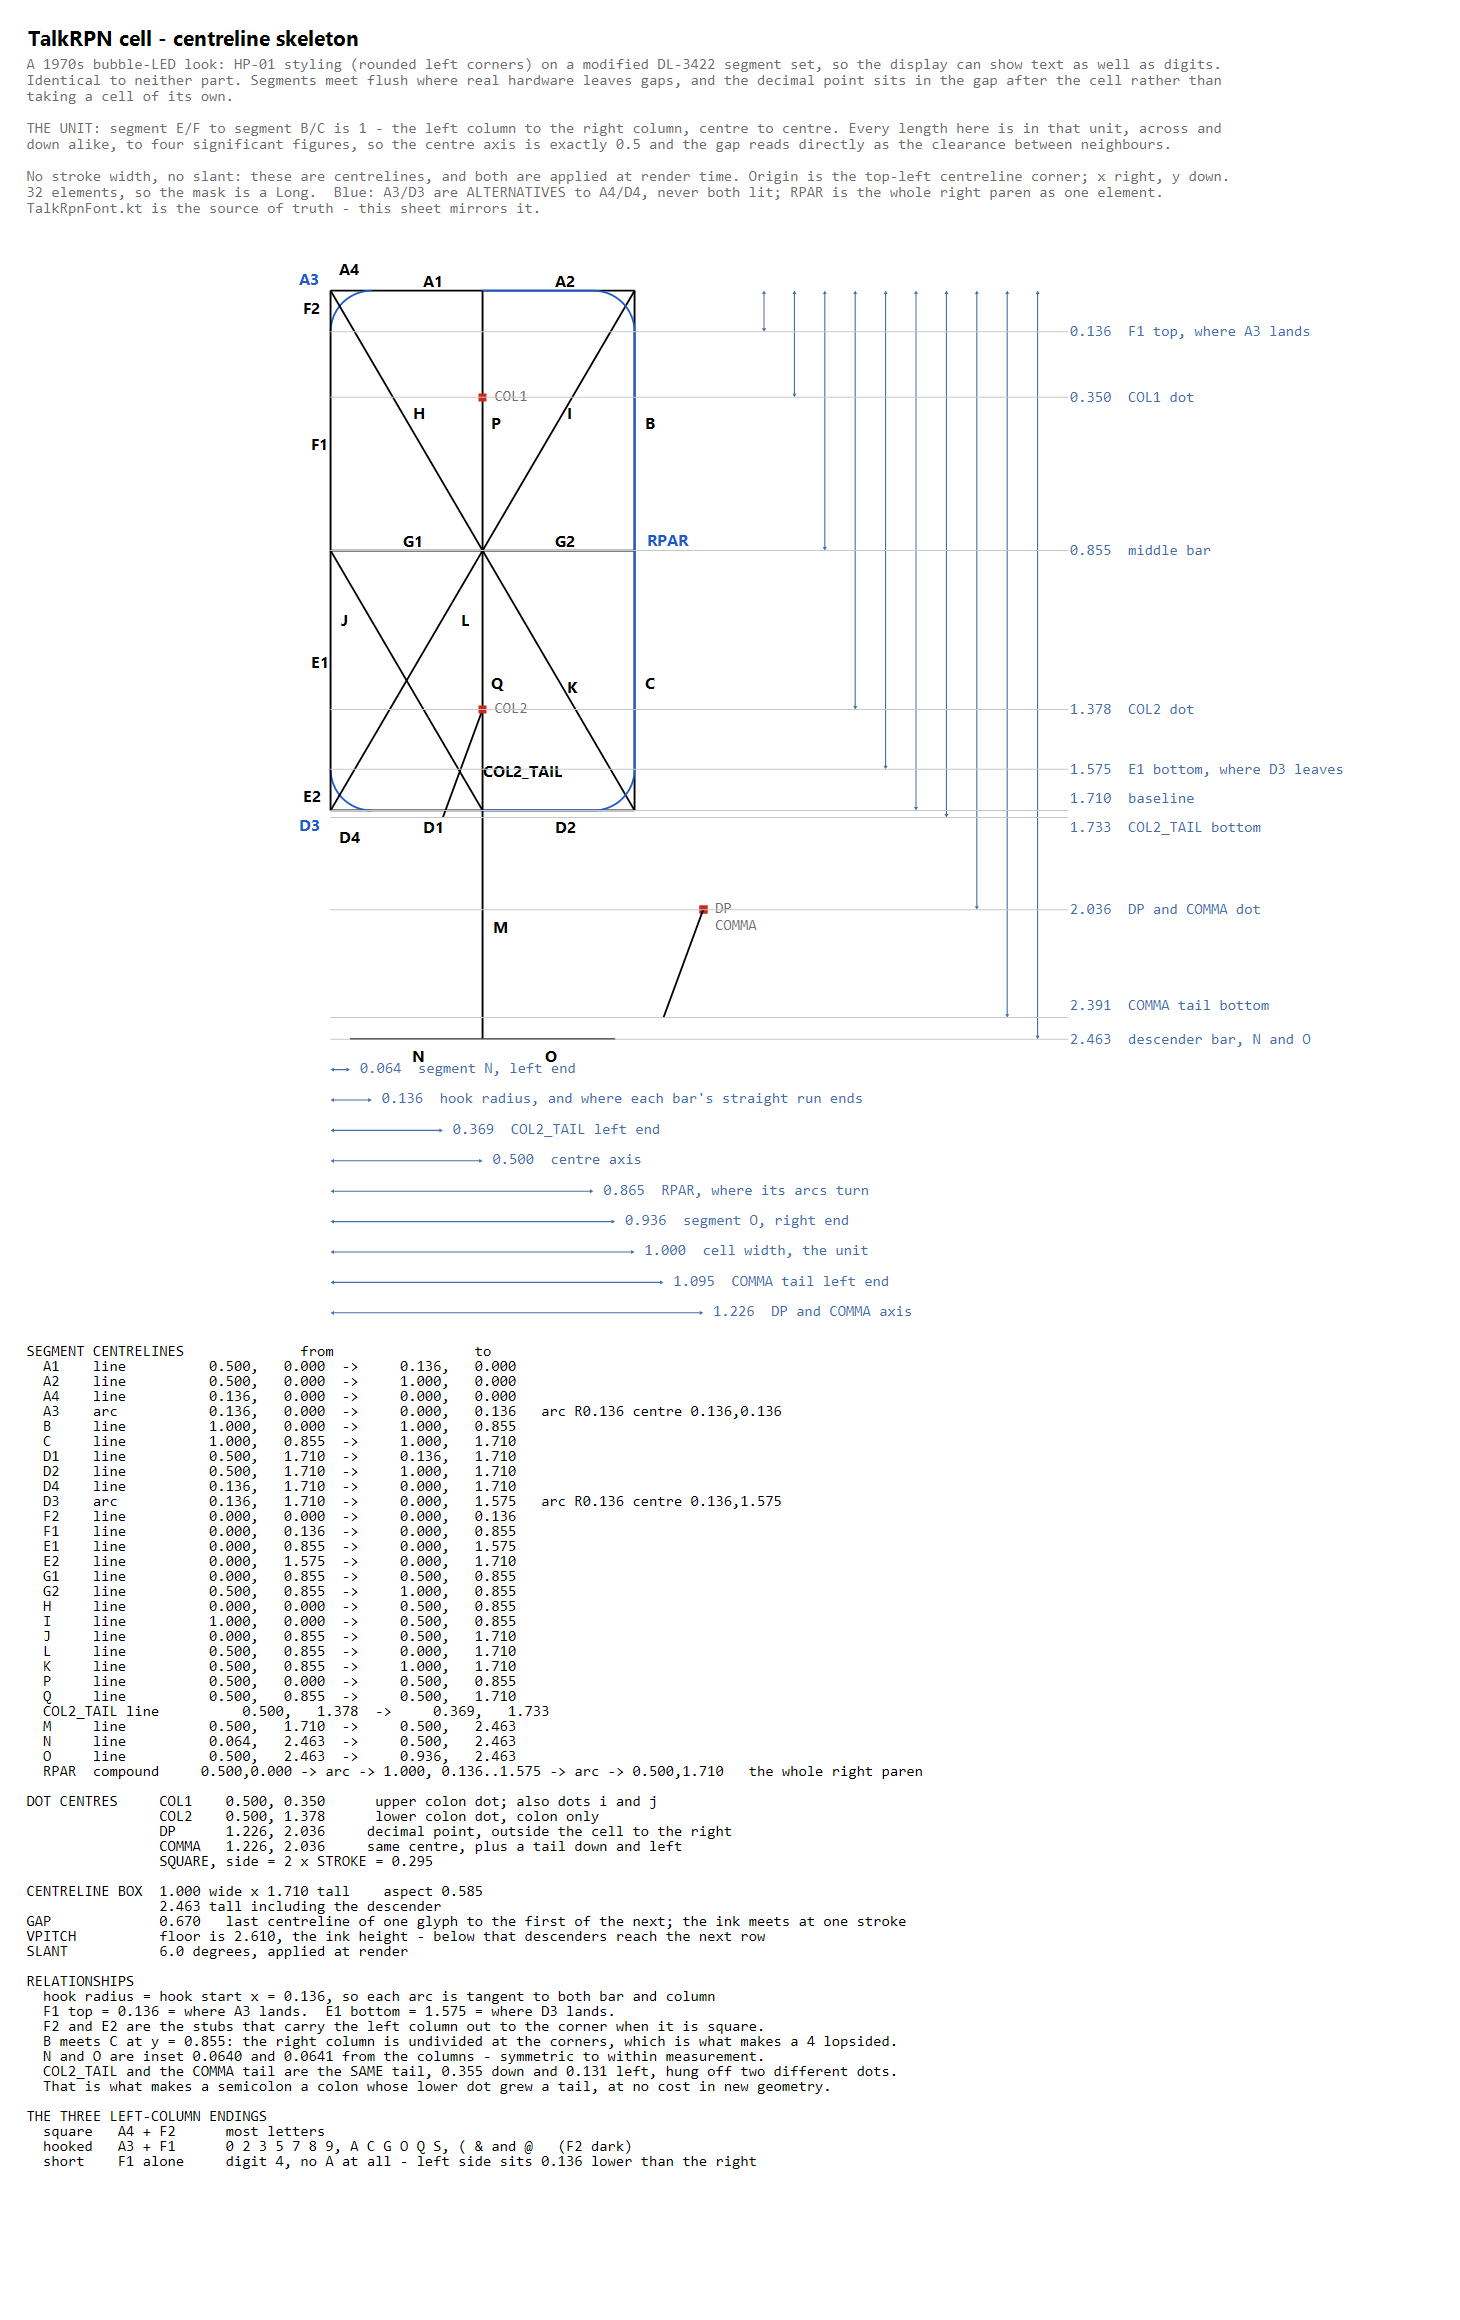
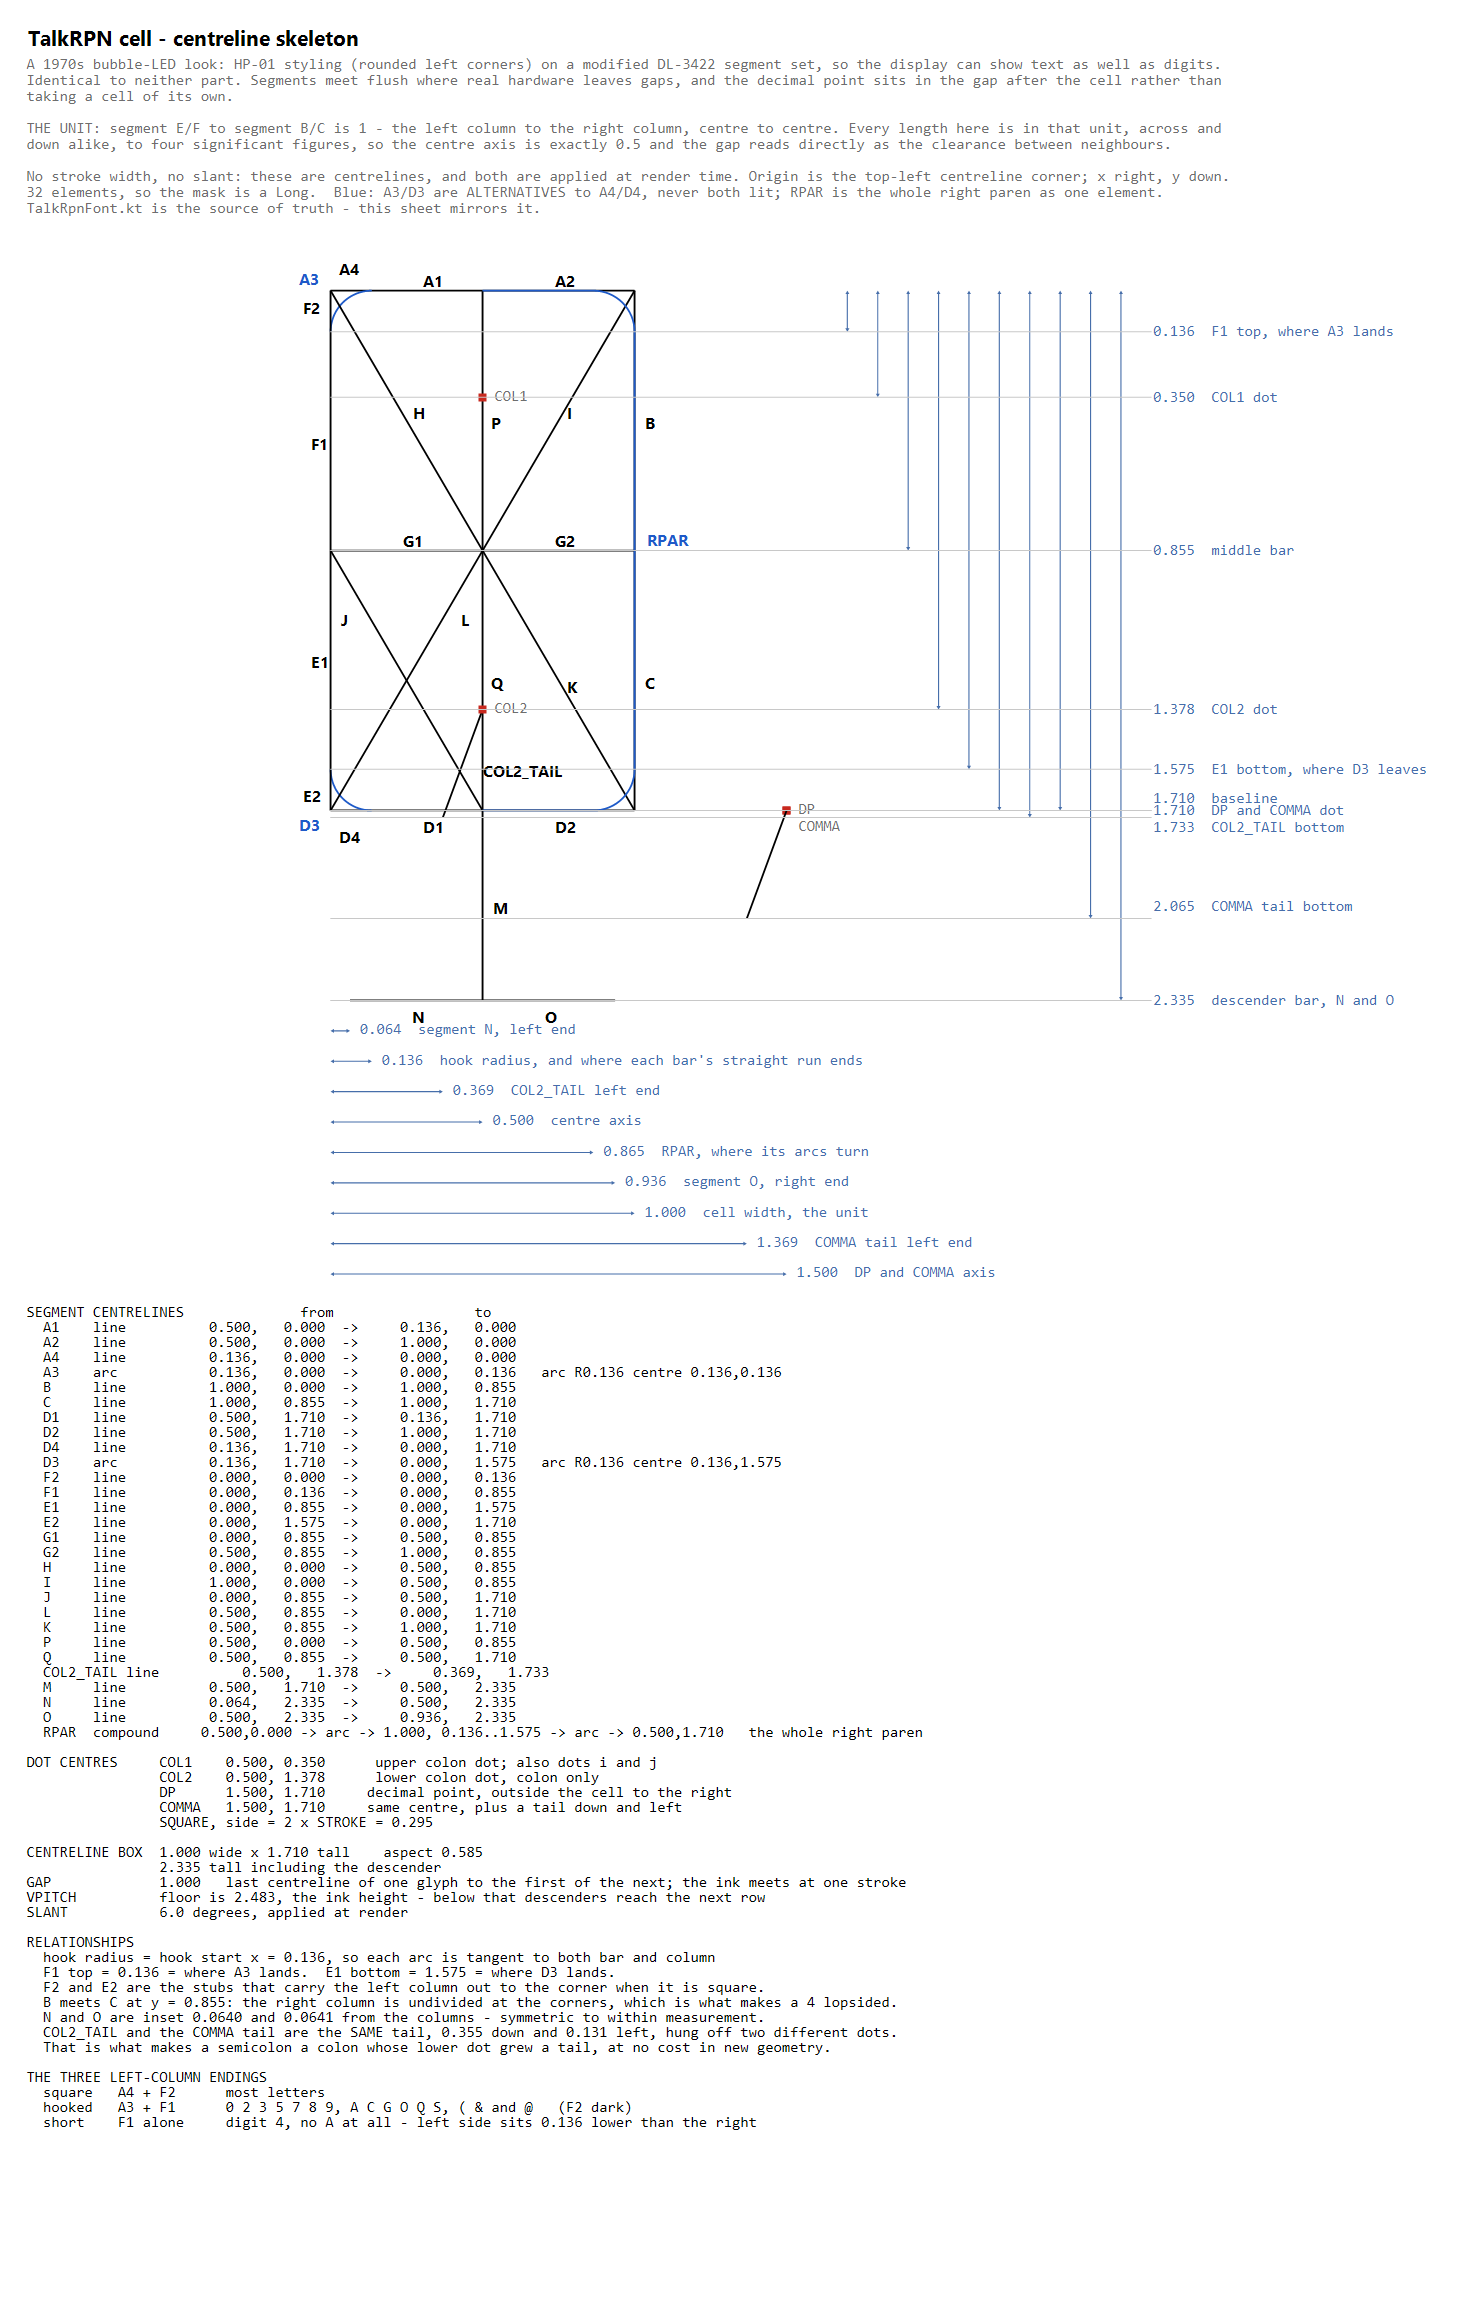
The mirrors follow the dot to mid-gap and baseline; sheets regenerated

diff --git a/HISTORY.md b/HISTORY.md
@@ -284,6 +284,22 @@ cache staleness.
 
 ---
 
+## The decimal point's three homes in one day
+
+2026-08-18. The dot started at `DP_GAP_FRACTION` = 0.337 of the gap (itself a
+datasheet-derived accident) and 0.3263 below the baseline. Dave suspected the
+fraction was a patch; the morning's replacement was `DP_ADVANCE`, a fixed
+0.2 past the glyph's ink, argued from hardware (a DP die is bolted to its
+digit). It lived about an hour: Dave then proposed the third model - the dot
+as the BOUNDARY'S mark, dead-centred in the gap (`inkRight + gap/2`) and
+raised onto the baseline, level with segment D. That one won because it is
+not a constant at all: no knob, symmetric clearance by construction, scales
+with the gap naturally. Two tweakables (`DP_ADVANCE`, `DP_DROP`) died with
+it, and `DP_GAP_FRACTION` never reached a release. The vertical move also
+returned 0.33 units of clearance to the row below.
+
+---
+
 ## The LED colour
 
 Both datasheets state the peak outright — no reconstruction needed. HP 5082-7400
